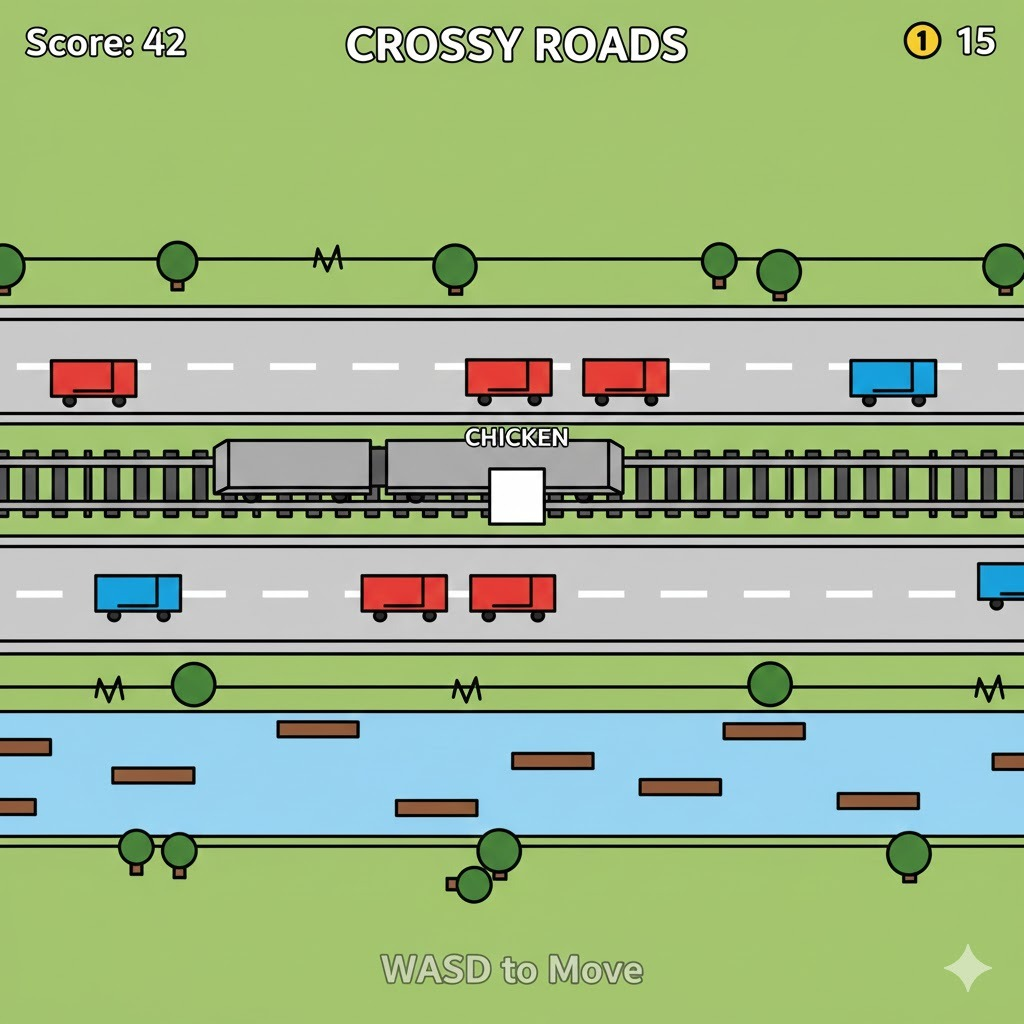
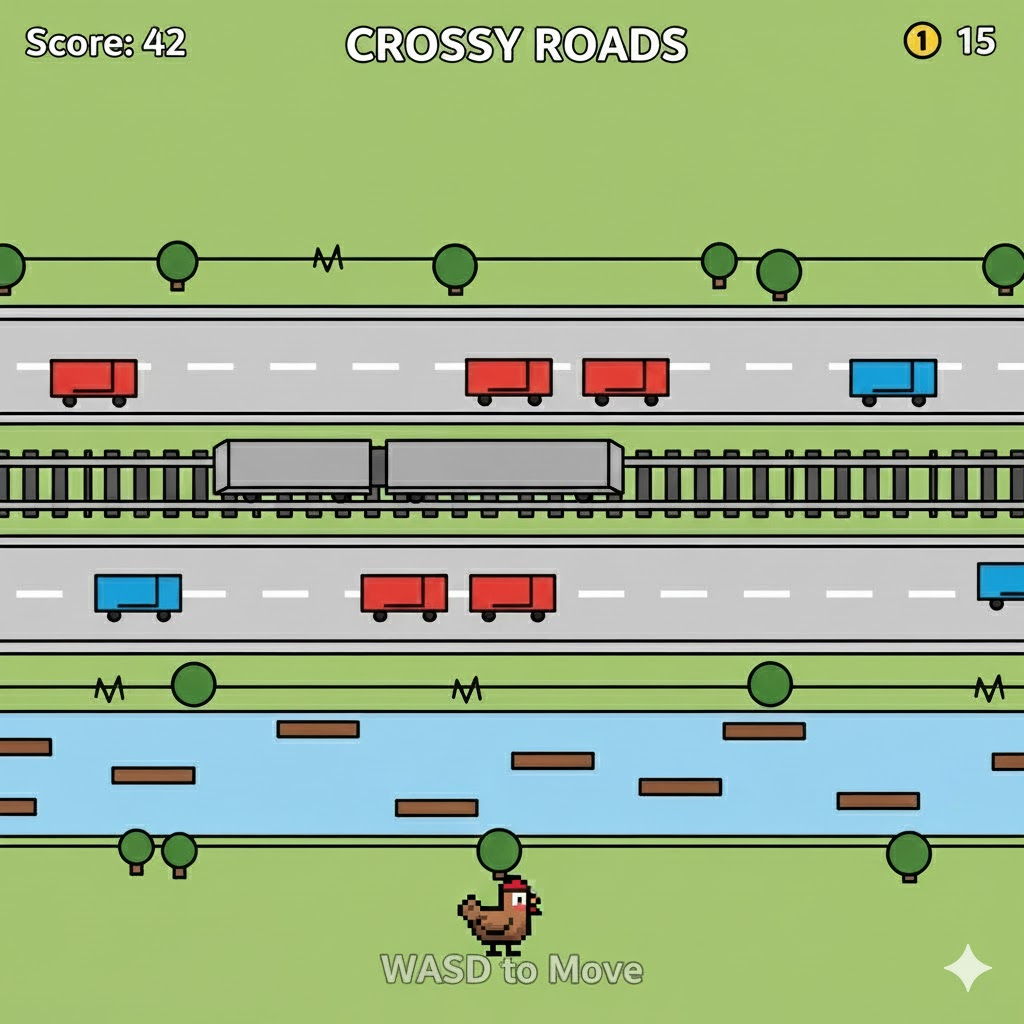
Documentation Development
Changed Implemented features,
Added Test Coverage from Jacoco,
Added Code Smells.

diff --git a/docs/README.md b/docs/README.md
@@ -9,15 +9,14 @@ This project was developed by João Barros (up202406502@edu.fe.up.pt), Miguel Ro
 
 ## Implemented Features
 
-At the moment there are no implemented features
+- **Player control** - The player moves using the keyboard. (WASD)
+- **Collision detection** - Collisions between player and car objects are verified.
 
 ## Planned Features
 
 - **Connected Menus** - The user will have the capability of browsing through the different menus including in game ones. (Ex: Main Menu, Play, Shop and Pause).
 - **Buttons** - Functional and interactive buttons.
 - **Mouse and Keyboard control** - The mouse and keyboard inputs will be received through the respective events and interpreted according to the current game state.
-- **Player control** - The player will move using the keyboard. (WASD)
-- **Collision detection** - Collisions between different objects will be verified. (Ex: Player, Vehicles, Trains, Obstacles).
 - **Score** - Each run will have a score, storing the highest score upon death.
 - **Increase of difficulty** - As the game goes on, the difficulty will increase with faster-moving traffic and more challenging patterns.
 - **Shop interaction and coins** - The player will be able to buy new skins for the character in the in-game shop, with coins that will be earned by playing.
@@ -27,10 +26,10 @@ At the moment there are no implemented features
 ## Mockups
 
 The following images try to illustrate some features that we want to implement in the game.
-All images were generated by AI.
+All images were generated by AI - Specifically, Google Gemini 3 Pro implementing Nano Banana Pro. Prompts were continuously changed in order to generate images similar to the ones we had in mind.
 
 <p align="center" justify="center">
-  <img src="project-t02g03/docs/images/mockups/userSelectionScreen.jpg"/>
+  <img src="images/mockups/userSelectionScreen.jpg"/>
 </p>
 <p align="center">
   <b><i>Fig 1. User Selection Screen</i></b>
@@ -40,7 +39,7 @@ All images were generated by AI.
 <br />
 
 <p align="center" justify="center">
-  <img src="project-t02g03/docs/images/mockups/mainMenu.jpg"/>
+  <img src="images/mockups/mainMenu.jpg"/>
 </p>
 <p align="center">
   <b><i>Fig 2. Main Menu</i></b>
@@ -50,7 +49,7 @@ All images were generated by AI.
 <br />
 
 <p align="center" justify="center">
-  <img src="project-t02g03/docs/images/mockups/gameScreen.jpg"/>
+  <img src="images/mockups/gameScreen.jpg"/>
 </p>
 <p align="center">
   <b><i>Fig 3. Game Screen</i></b>
@@ -60,7 +59,7 @@ All images were generated by AI.
 <br />
 
 <p align="center" justify="center">
-  <img src="project-t02g03/docs/images/mockups/pauseMenu.jpg"/>
+  <img src="images/mockups/pauseMenu.jpg"/>
 </p>
 <p align="center">
   <b><i>Fig 4. Pause Menu</i></b>
@@ -70,7 +69,7 @@ All images were generated by AI.
 <br />
 
 <p align="center" justify="center">
-  <img src="project-t02g03/docs/images/mockups/gameOverScreen.jpg"/>
+  <img src="images/mockups/gameOverScreen.jpg"/>
 </p>
 <p align="center">
   <b><i>Fig 5. Game Over Screen</i></b>
@@ -80,7 +79,7 @@ All images were generated by AI.
 <br />
 
 <p align="center" justify="center">
-  <img src="project-t02g03/docs/images/mockups/shopMenu.jpg"/>
+  <img src="images/mockups/shopMenu.jpg"/>
 </p>
 <p align="center">
   <b><i>Fig 6. Shop Screen</i></b>
@@ -110,33 +109,77 @@ Using these design patterns has the following benefits:
 - Ease of changing the GUI interface. 
 
 
+#### Problem in Context:
+
+Separation of concerns through the use of the MVC strategy.
+
+#### Implementation:
+
+The project is split into 3 main packages: Model, View and Controller. It also has the application package, which is the main class that starts the game. 
+Considering the Controller, our current implementation is centered around the GameController class, which updates the player based on input given by the user, and also updates the Lanes (with their entities) that constitute the game.
+
+### Screenshot of Controller package
+<p align="center" justify="center">
+  <img src="images/UML/controllerPackage.png" height="750"/>
+</p>
+<p align="center">
+  <b><i>Fig 7. Controller package</i></b>
+</p>
 
 
+Regarding the Model, every class uses some sort of Position's attributes, so we decided not to clutter the UML model with Position's connections. The same happened with our Direction enum. Model is centered around Level class which holds the Grid, Lane, and Players. Indirectly, The types of Lane are Conneced to types of entities -> MovableLanes will holf MovableEntities, and StaticLanes will hold StaticEntities, however that connection isnt explicit in code so is not shown in UML diagram. 
 
+### Screenshot of Model package
+<p align="center" justify="center">
+  <img src="images/UML/modelPackage.png"/>
+</p>
+<p align="center">
+  <b><i>Fig 8. Model package</i></b>
+</p>
+
+Finally, there is the viewer, which is very simple for now: Simply prints to the console / terminal empty spaces as "." and the entities as their respective symbols.
+For now, it doesn't use Lanterna, but it will be implemented in the future.
+
+### Screenshot of View package
+<p align="center" justify="center">
+  <img src="images/UML/viewPackage.png"/>
+</p>
+<p align="center">
+  <b><i>Fig 9. View package</i></b>
+</p>
+
+#### Problem in Context:
+The development of this game and the planning we made has showed that the large variety of distinc entities (vehicles, coins, logs) as well as diferent types of lanes (rivers, roads, safe) would have required a large amount of copied code.
+
+#### Implementation:
+In order to solve this, we decided to use abstract classes and interfaces to reduce the amount of copied code.
+
+#### Consequences:
+
+Considering the current state of the game, the amount of abstract classes may seem excessive. This is something that will be changed in the future.
 
 
 ## Known-code smells
 
-Currently view isnt properly implemented / separated from the model. We are aware of this and plan to fix it in the near future. 
-Lane also is wrongly implemented, currently just built to allow for the game to run. It will be split into multiple classes in the near future.
+Currently the input needs to be done 1 character at a time, and needs "enter" to be pressed to be registered. The view testing is also very basic, as it only tests the console viewer. Using Lanterna in the future will allow for a better input experience, and a more advanced testing system.
 
+There is also the presence of hardcoded values, such as the size of the grid, RoadLanes spawnChance and offset values and more. This is something that will be changed in the future, when logic for increasing difficulty is implemented and the size of different entities is taken into account.
 ## Testing
 
 ### Screenshot of coverage report
 <p align="center" justify="center">
-  <img src="images/screenshots/codeCoverage"/>
+  <img src="images/testCoverage/jacoco.png"/>
 </p>
 <p align="center">
-  <b><i>Fig 6. Code coverage screenshot</i></b>
+  <b><i>Fig 10. Code coverage screenshot</i></b>
 </p>
 
-### Link to mutation testing report
-[Mutation tests](../build/reports/pitest/202105302045/index.html)
 
 ## Self-evaluation
 
 The work was divided in a way that felt fair to every member.
 Therefore:
-Rosa Chilengue: 33.3%
-João Barros: 33.3%
-Miguel Rocha: 33.3%
+
+- João Barros: 33.3%
+- Miguel Rocha: 33.3%
+- Rosa Chilengue: 33.3%

diff --git a/README.md b/README.md
@@ -1,14 +1,66 @@
 # LDTS_T02_G03 - CROSSY ROADS
 
+
 ## Game Description
-The following screenshots ilustrate the general look of our game, as well as the divergent functionalities:
+Crossy Roads is an endless arcade hopper game where you guide a character across busy roads, train tracks, and rivers while avoiding various obstacles. Your goal is to travel as far as possible without getting hit by vehicles, trains, or falling into the water.
+As you progress, the difficulty increases with faster-moving traffic and more challenging patterns.
+
+## Authors
+- João Barros (up202406502@edu.fe.up.pt)
+- Miguel Rocha (up202405484@edu.fe.up.pt)
+- Rosa Chilengue (up202109257@edu.fe.up.pt)
 
 ### Game preview
 
+<p align="center" justify="center">
+  <img src="docs/images/mockups/gameScreen.jpg"/>
+</p>
+<p align="center">
+  <b><i>Fig 1. Game Screen</i></b>
+</p>  
+
+<br>
+<br />
+
 ### Menus
+<p align="center" justify="center">
+  <img src="docs/images/mockups/mainMenu.jpg"/>
+</p>
+<p align="center">
+  <b><i>Fig 2. Main Menu</i></b>
+</p>  
 
-### Obstacles
+<p align="center" justify="center">
+  <img src="docs/images/mockups/userSelectionScreen.jpg"/>
+</p>
+<p align="center">
+  <b><i>Fig 3. User Selection Menu</i></b>
+</p>  
 
-### Animations
+<p align="center" justify="center">
+  <img src="docs/images/mockups/pauseMenu.jpg"/>
+</p>
+<p align="center">
+  <b><i>Fig 4. Pause Menu</i></b>
+</p>  
+
+
 
 ### End Game
+<p align="center" justify="center">
+  <img src="docs/images/mockups/gameOverScreen.jpg"/>
+</p>
+<p align="center">
+  <b><i>Fig 5. Game Over</i></b>
+</p>  
+
+### Controls
+- **W**: Move Forward
+- **S**: Move Backward
+- **A**: Move Left
+- **D**: Move Right
+- **Q / ESC**: Quit Game
+
+### Report
+
+More information regarding the actual development of the game and the final report can be found in the [Project Report](docs/README.md).
